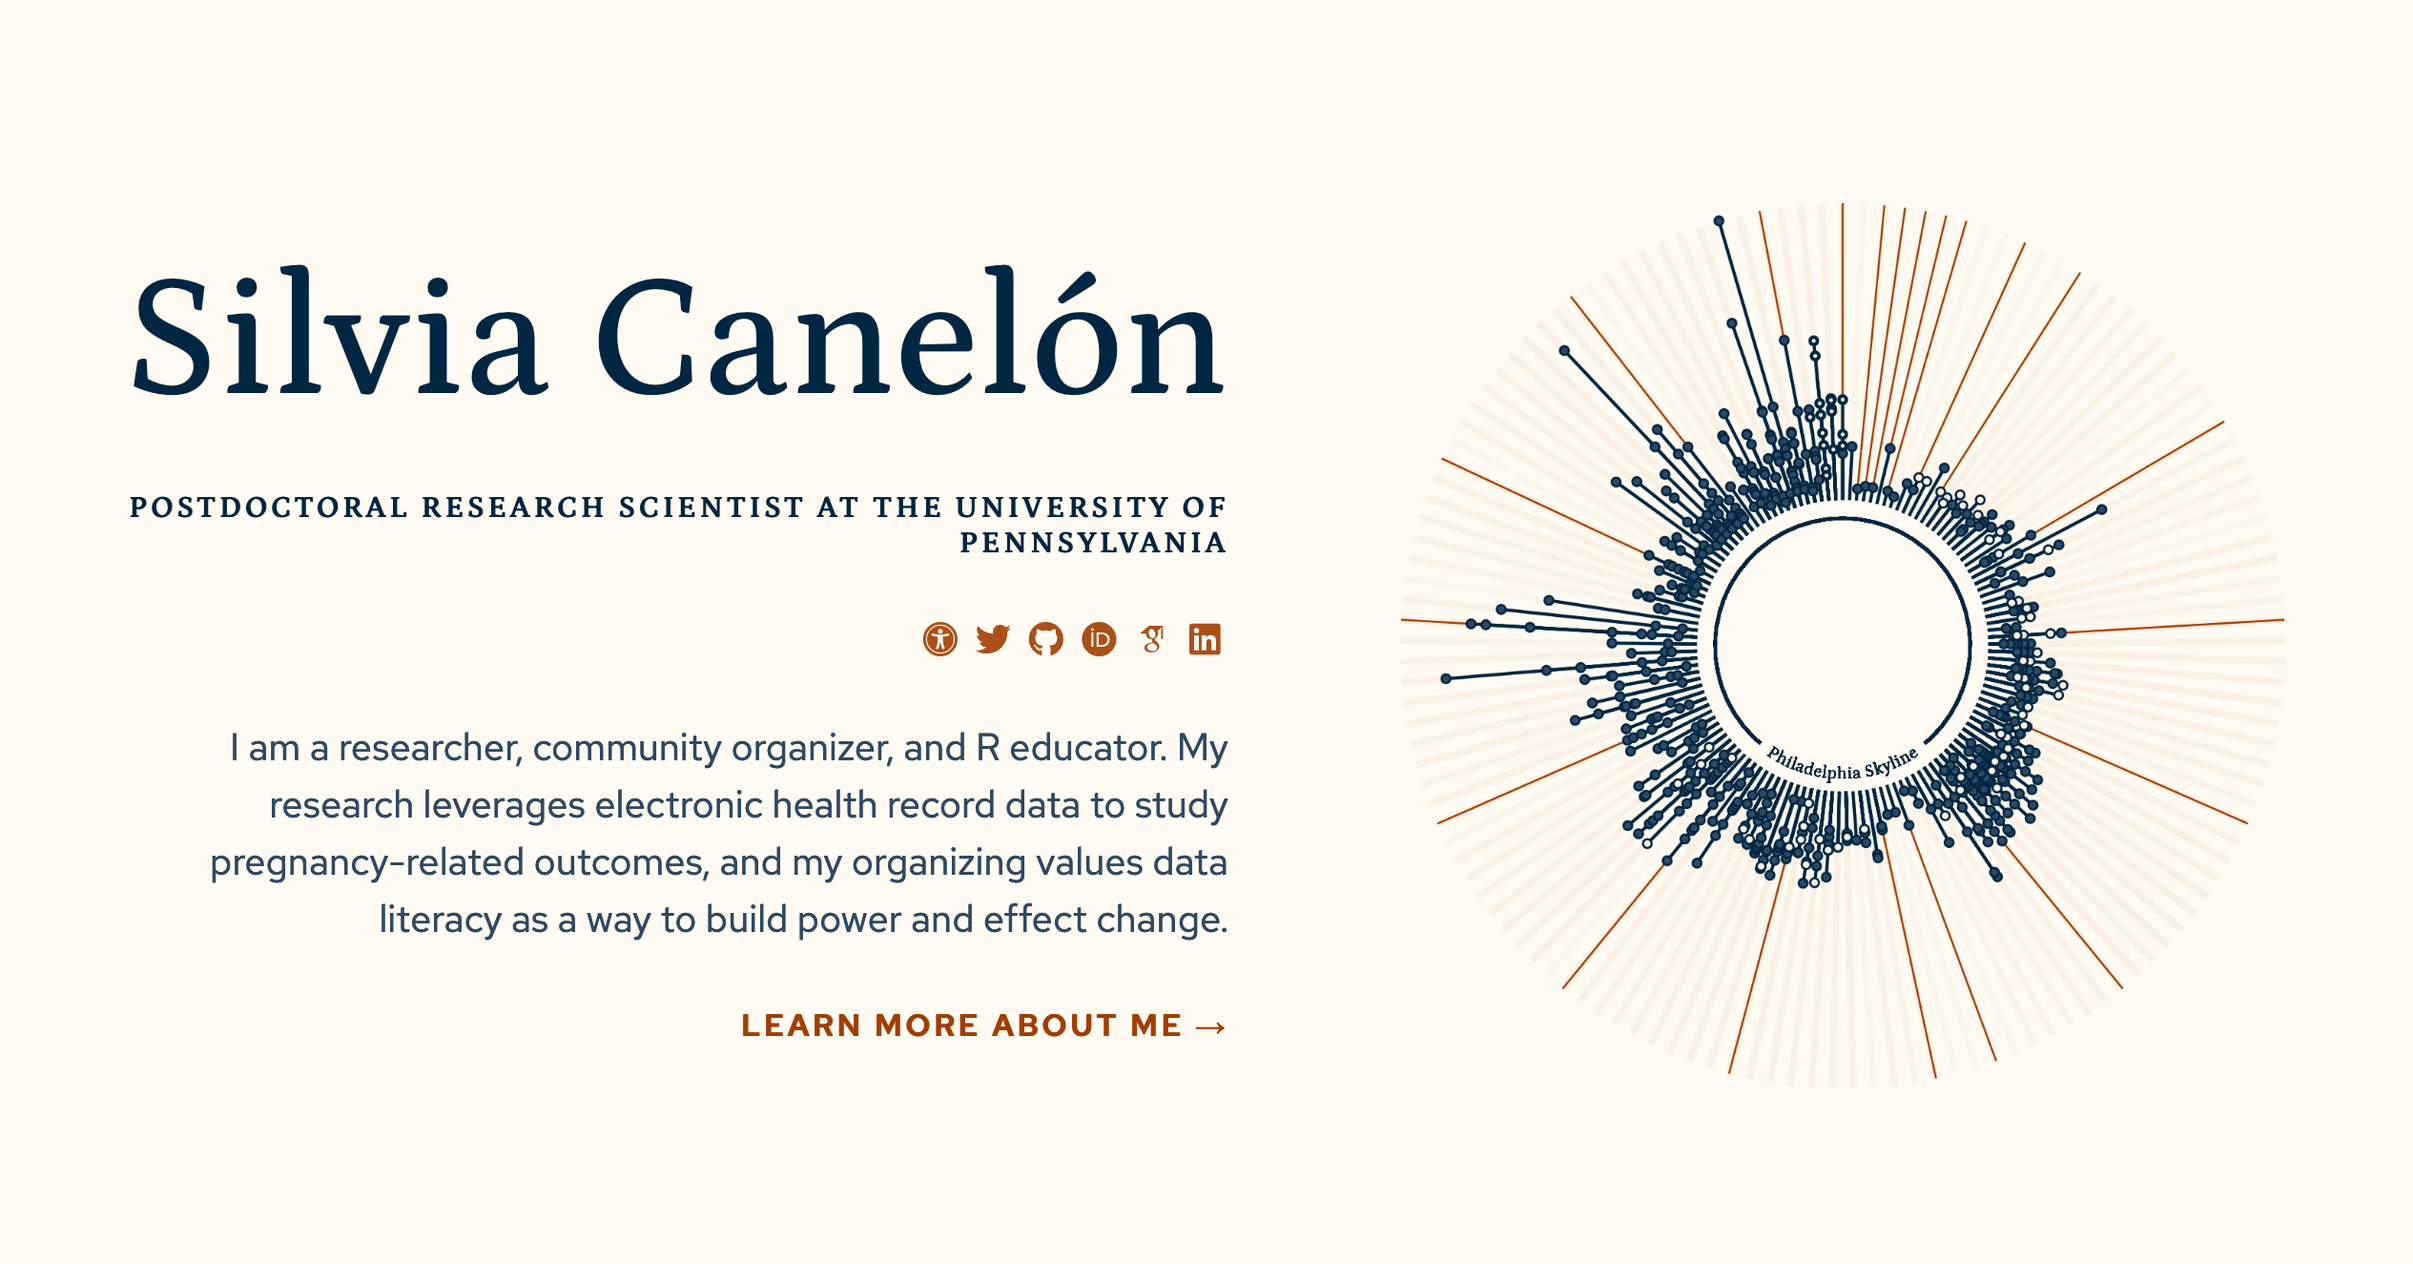
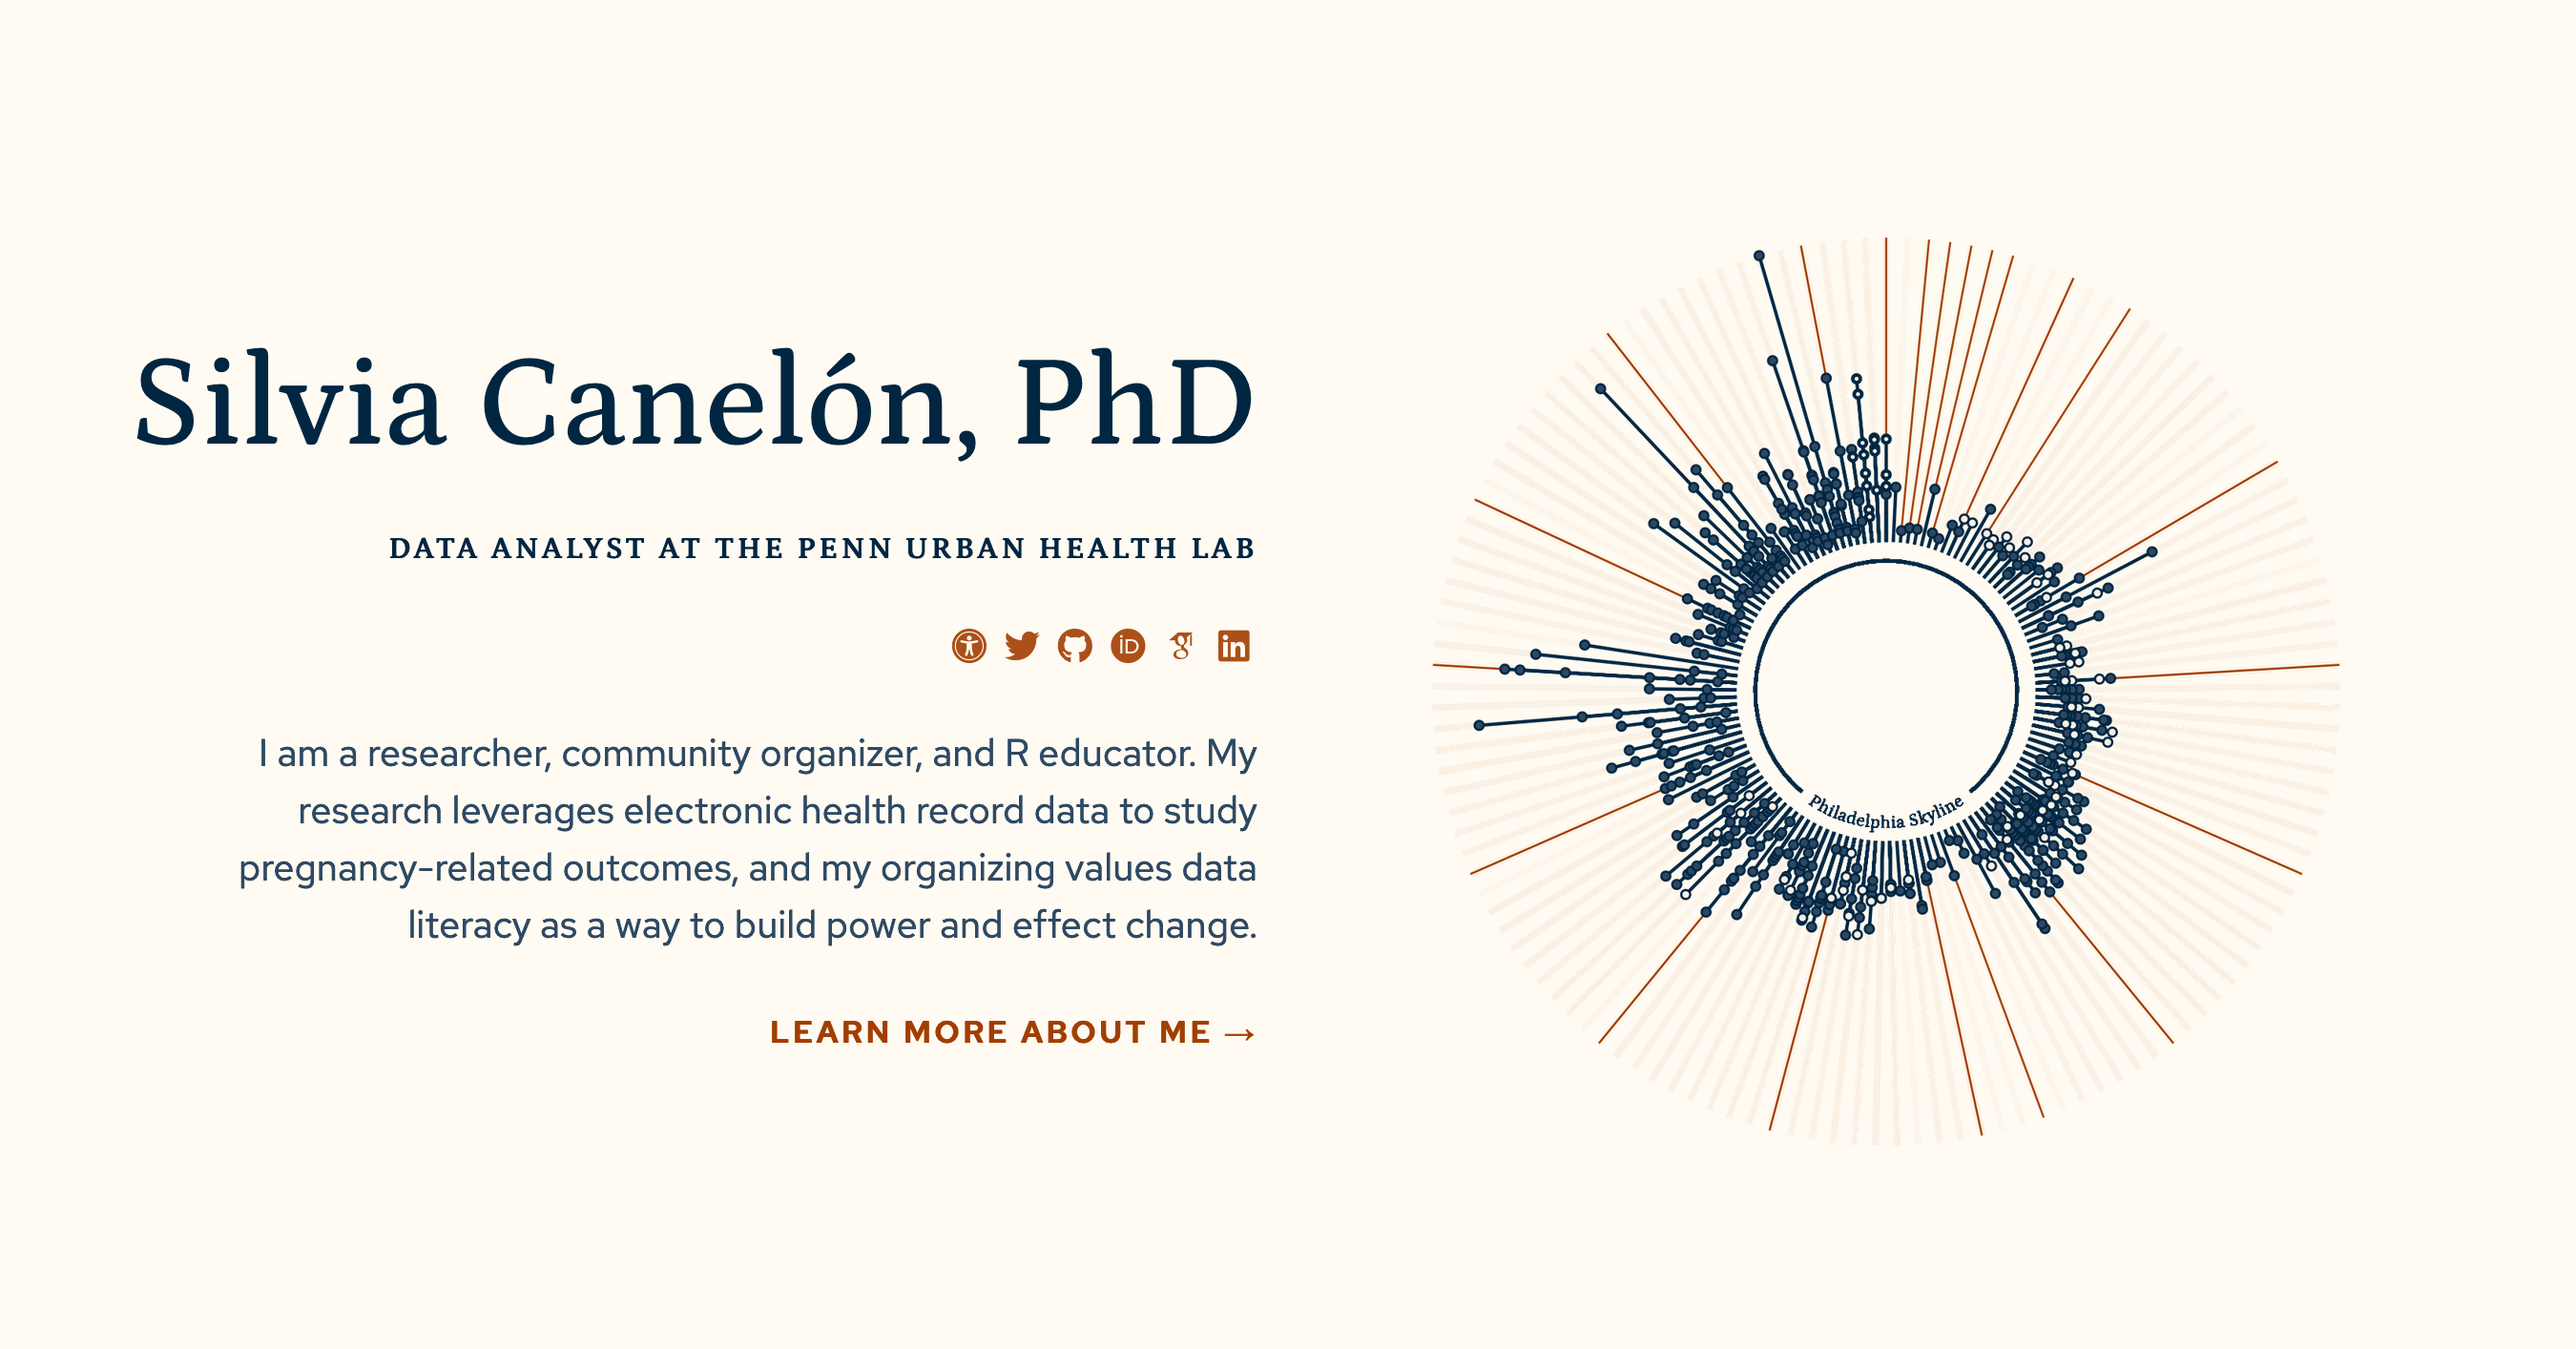
update with new job at UHL (fix #87)

diff --git a/assets/custom.scss b/assets/custom.scss
@@ -177,6 +177,11 @@ a:hover {
   text-decoration: none;
 }
 
+// home page site header
+.grid-container.home h1 {
+  font-size: 4.25em;
+}
+
 // single post ----------------------------------------------------------------
 
 /*

diff --git a/content/about/header/index.md b/content/about/header/index.md
@@ -3,13 +3,13 @@
 text_align_right: false
 show_title_as_headline: false
 headline: |
-  Hello, I'm happy you're here.
+  Hey, I'm happy you're here.
 ---
 
 <!-- this is a subheadline -->
 Thanks for stopping by!
 
-I'm a postdoctoral research scientist in the [Department of Biostatistics, Epidemiology, and Informatics](https://www.dbei.med.upenn.edu/) at the University of Pennsylvania Perelman School of Medicine. My research interests include applications of biomedical informatics in the public and population health fields. I work in the [Boland Lab](https://www.med.upenn.edu/bolandlab/) on projects that develop novel data mining methods to extract pregnancy-related information from Electronic Health Records (EHR) and study the relationship between environment and disease. Learn more about my research interests in [publications](/publication).
+I'm a data analyst in the [Urban Health Lab](https://www.urbanhealthlab.org/) at the University of Pennsylvania. My research interests include applications of biomedical data science in the public and population health fields. I work on projects that use electronic health record (EHR) data and geospatial analyses to explore how the neighborhood environment and access to urban nature can impact the health of individuals in Philadelphia. Learn more about my research interests in [publications](/publication).
 
 <i class="fas fa-certificate pr2"></i>[Certificate in Biomedical Informatics](https://www.med.upenn.edu/mbmi/certificate.html)  &#8729;  University of Pennsylvania  &#8729;  2019
 

diff --git a/content/about/main/index.md b/content/about/main/index.md
@@ -6,7 +6,7 @@ use_featured: false # if false, use most recent by date
 number_categories: 3 # set to zero to exclude
 show_intro: true
 intro: |
-  I've been enjoying using [R](https://www.r-project.org/about.html) to optimize my research workflow and have noticed it making guest appearances elsewhere in my life. I'm certified as an [RStudio Tidyverse Instructor](https://education.rstudio.com/trainers/people/canelon+silvia/) and am passionate about R education as a way to build power in communities. Keep up with my R tinkering in my [blog](/blog) and teaching in [talks](/talk).
+  I enjoy using [R](https://www.r-project.org/about.html) to optimize my data science workflow and have noticed it making guest appearances elsewhere in my life. I'm certified as an [RStudio Tidyverse Instructor](https://education.rstudio.com/trainers/people/canelon+silvia/) and am passionate about R education as a way to build power in communities. Keep up with my R tinkering in my [blog](/blog) and presentations in [talks](/talk).
   
   <i class="fas fa-certificate pr2"></i>[Tidyverse Instructor Certification](https://education.rstudio.com/trainers/people/canelon+silvia/)  &#8729;  RStudio, PBC &#8729;  2020
 

diff --git a/content/_index.md b/content/_index.md
@@ -1,11 +1,11 @@
 ---
-title: "Silvia Canelón"
-subtitle: "Postdoctoral Research Scientist at the University of Pennsylvania"
+title: "Silvia Canelón, PhD"
+subtitle: "Data Analyst at the Penn Urban Health Lab"
 description: "I am a researcher, community organizer, and R educator. My research leverages electronic health record data to study pregnancy-related outcomes, and  my organizing values data literacy as a way to build power and effect change."
 sharing_image: "/img/silvia-social.png"
 images:
   - img/skyline-philly.png
-image_alt_text: "Photo of a lake with water reflecting a bright blue sky and nestled among lush trees"
+image_alt_text: "Abstract data visualization depicting tall buildings in Philadelphia as a circle. The text inside the circle reads Philadelphia Skyline"
 image_left: false
 text_align_left: false
 show_social_links: true # specify social accounts in site config

diff --git a/content/about/sidebar/index.md b/content/about/sidebar/index.md
@@ -1,7 +1,7 @@
 ---
 ## Configure sidebar content in narrow column
 author: "Silvia Canelón"
-role: "Postdoctoral Research Scientist"
+role: "Data Analyst, Urban Health Lab @Penn"
 avatar_shape: rounded # circle, square, rounded, leave blank to exclude
 show_social_links: true # specify social accounts in site config
 audio_link_label: "" # leave blank to exclude
@@ -9,8 +9,8 @@ link_list_label: "Interests" # bookmarks, elsewhere, etc.
 link_list:
 - name: Reproductive & sexual health
   url: https://www.sistersong.net/reproductive-justice/
-- name: Social determinants of health
-  url: https://www.cdc.gov/socialdeterminants/about.html
+- name: Health equity
+  url: https://www.cdc.gov/healthequity/whatis/index.html
 - name: Data science & data ethics
   url: https://datafeminism.io/
 - name: R education & data literacy
